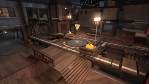
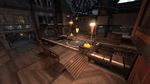
update new maps to tf2wiki images

diff --git a/tf2cm.py b/tf2cm.py
@@ -11,7 +11,7 @@ import icon
 import steam
 import tf2cm_wx
 
-__version__ = '1.5.0'
+__version__ = '1.5.1'
 
 
 class Map(object):
